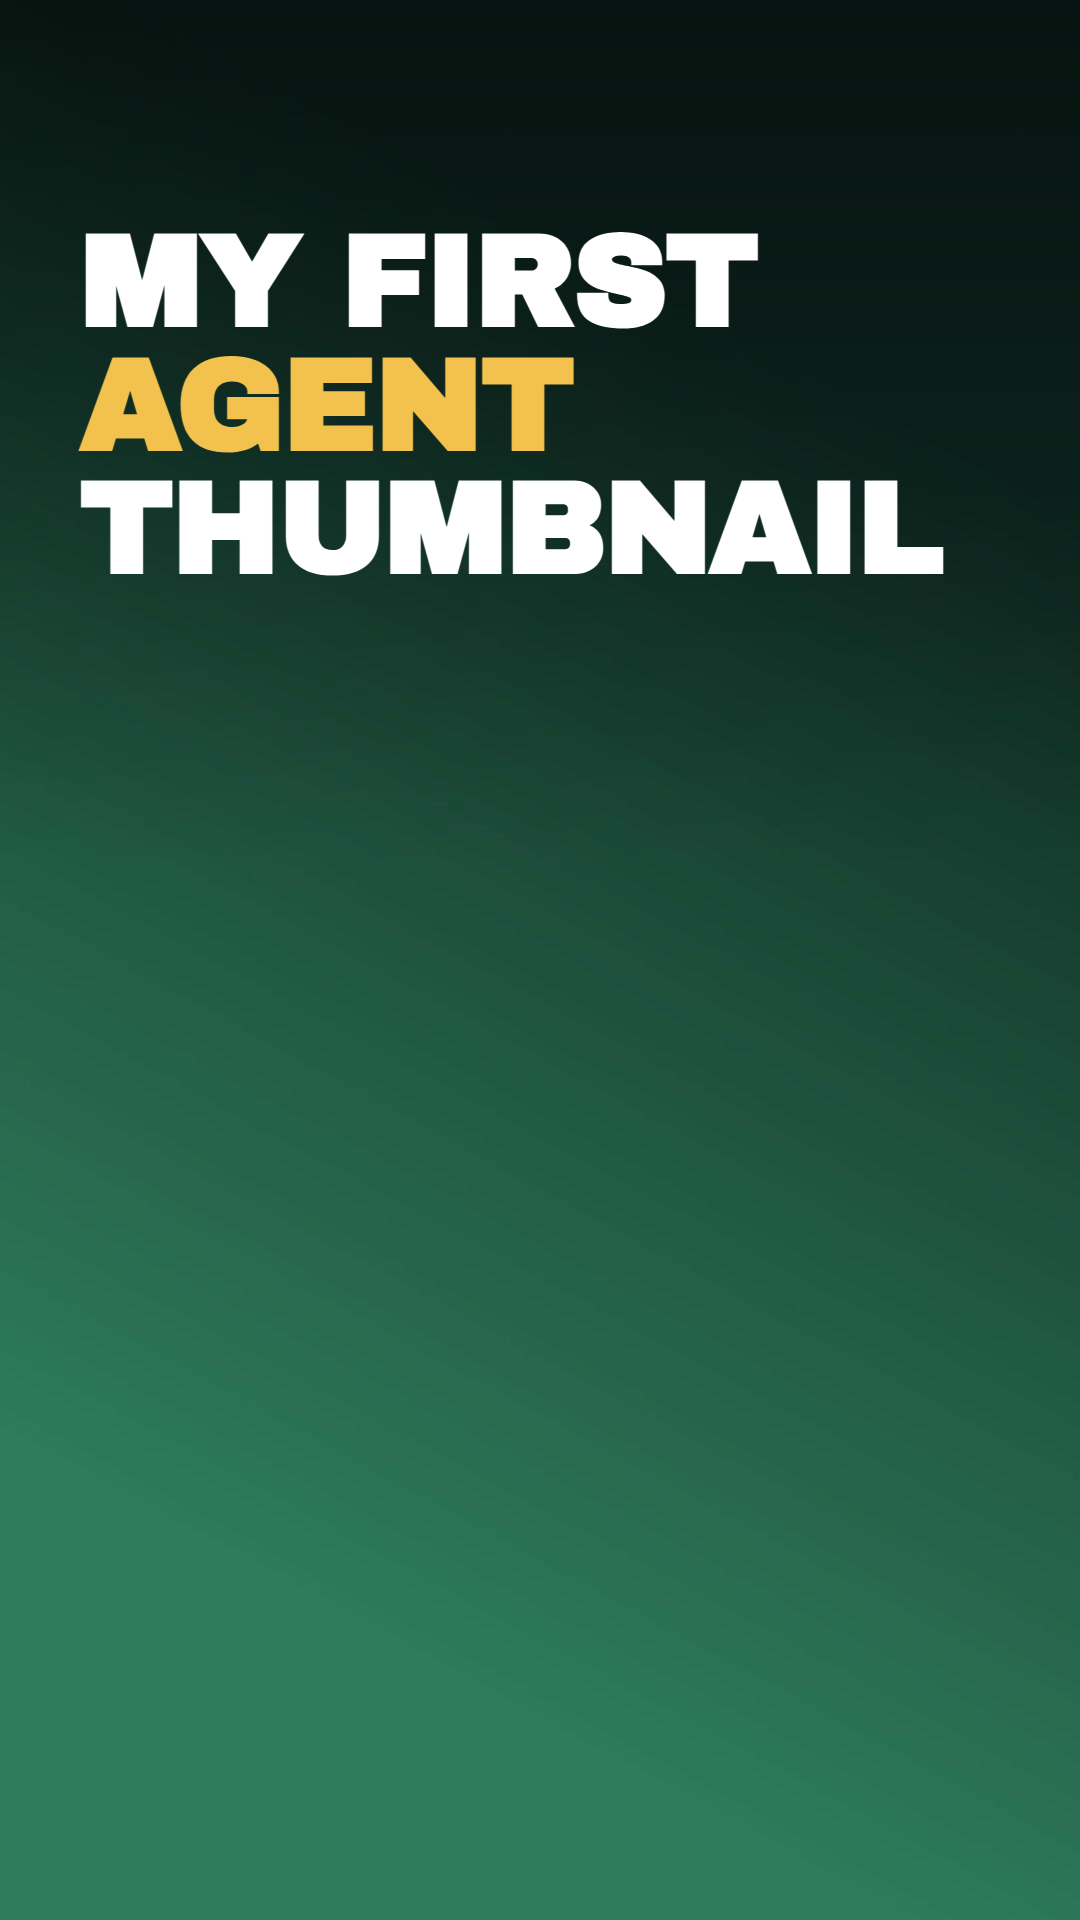
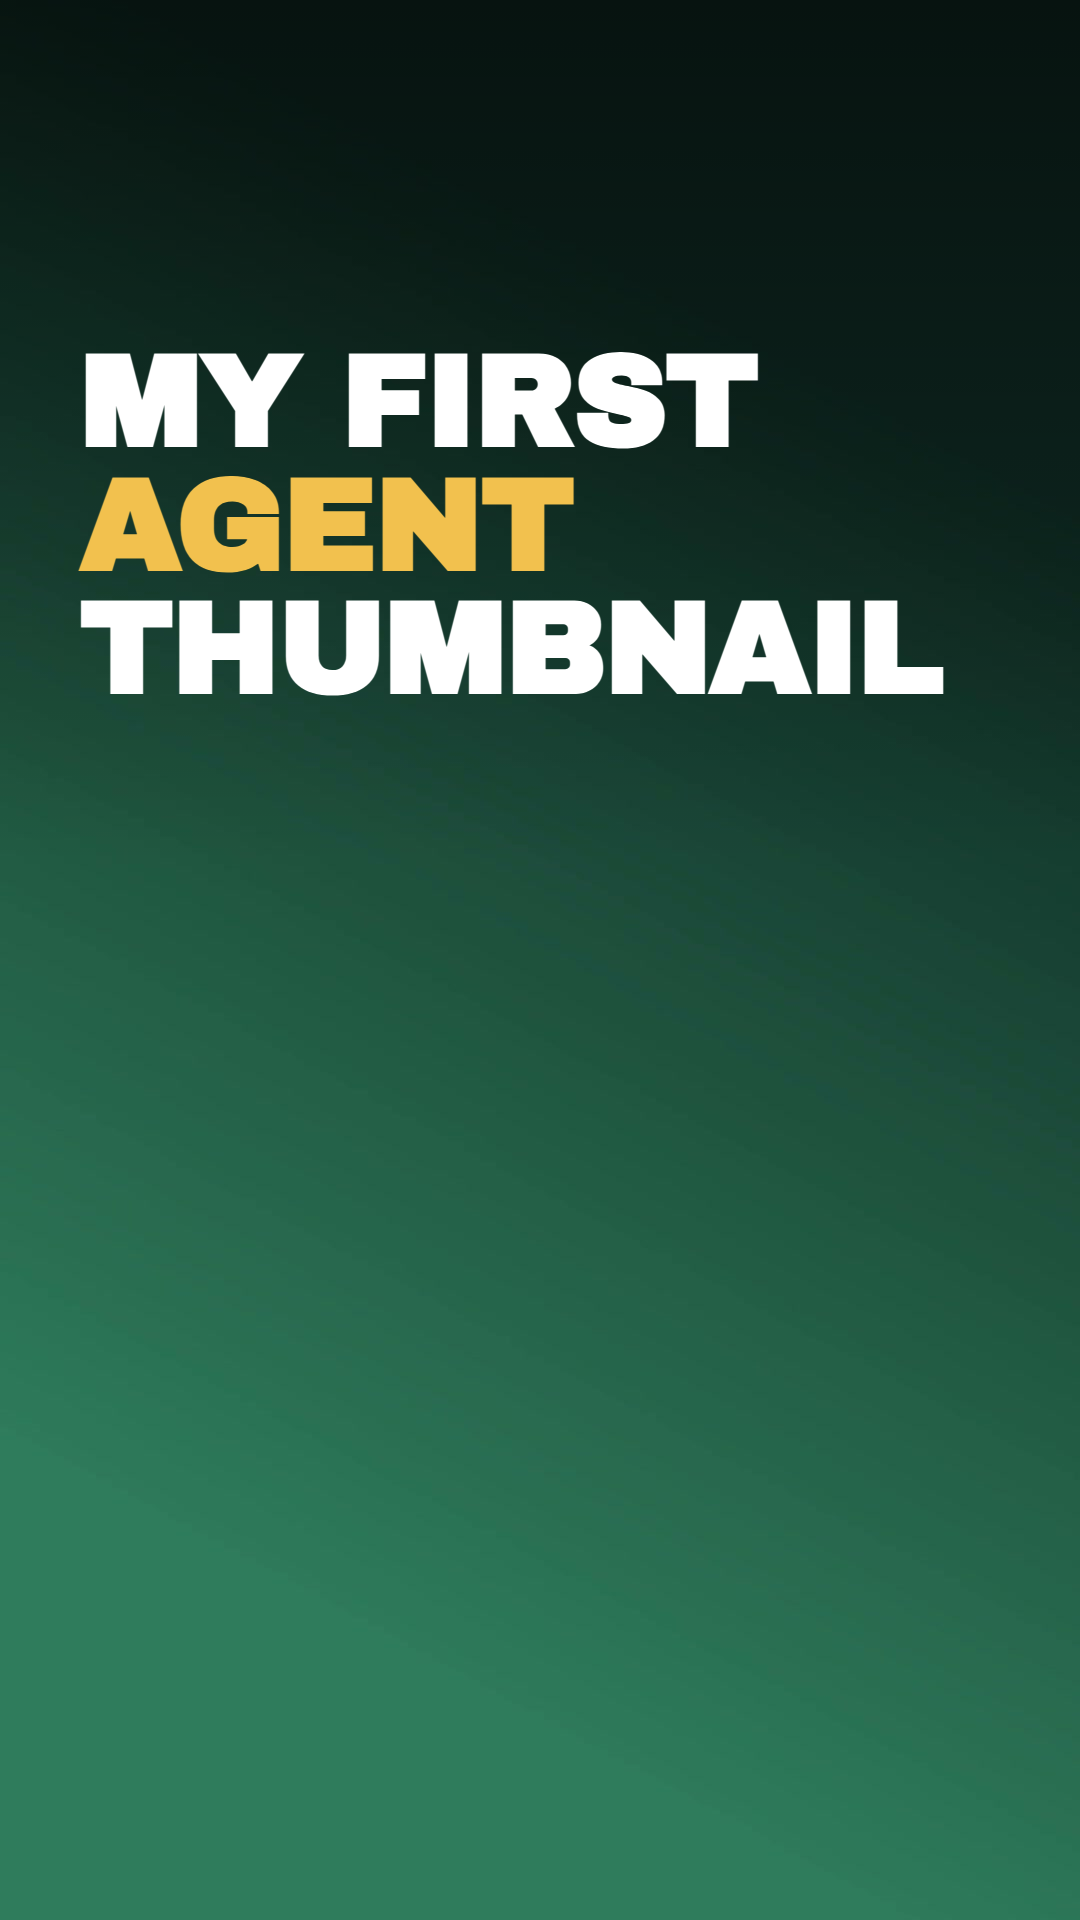
Thumbnail: Instagram sizes and safe zones, --guides crop lines
- table of canvas sizes and what each platform crops or covers (checked 2026-10-03):
  Reel cover 9:16, profile grid 3:4 (-240px top/bottom), home feed 4:5, full-screen UI
- render-html.ts --guides draws the grid/feed crops and caption area on 9:16 renders
- 00-example title moved into the safe zone (it was cut off on the grid)
- /prototype: G toggles the same crop lines for cover variants

Changed region(s): [[0.0611, 0.0938, 0.8861, 0.375]]

diff --git a/scripts/render-html.ts b/scripts/render-html.ts
@@ -12,7 +12,27 @@ export const SIZES = {
   "1:1": [1080, 1080],
 } as const satisfies Record<string, [number, number]>;
 
-export async function renderHtml(htmlPath: string, outPath: string, width: number, height: number): Promise<void> {
+// Instagram Reel cover zones, checked 2026-10-03: the profile grid crops 9:16 covers to a centred 3:4,
+// the home feed shows them at 4:5, and full-screen the caption and buttons cover the bottom ~20%.
+const GUIDES = `(() => {
+  const w = innerWidth, h = innerHeight, grid = (h - w * 4 / 3) / 2, feed = (h - w * 5 / 4) / 2;
+  const box = document.createElement("div");
+  box.style.cssText = "position:fixed;inset:0;z-index:2147483647;pointer-events:none;font:600 22px system-ui;";
+  const line = (y, color, dash, label) => box.insertAdjacentHTML("beforeend",
+    '<div style="position:absolute;left:0;right:0;top:' + (y - 2) + 'px;border-top:4px ' + dash + ' ' + color + '"></div>' +
+    '<div style="position:absolute;left:12px;top:' + (y + 6) + 'px;color:' + color + ';text-shadow:0 0 4px #000">' + label + '</div>');
+  line(grid, "rgb(255,0,200)", "solid", "profile grid 3:4");
+  line(h - grid, "rgb(255,0,200)", "solid", "profile grid 3:4");
+  line(feed, "rgb(0,220,255)", "dashed", "home feed 4:5");
+  line(h - feed, "rgb(0,220,255)", "dashed", "home feed 4:5");
+  box.insertAdjacentHTML("beforeend", '<div style="position:absolute;left:0;right:0;bottom:0;height:' + h * 0.2 +
+    'px;background:rgba(255,255,255,.18);color:#fff;padding:12px;text-shadow:0 0 4px #000">full-screen: caption + buttons</div>');
+  document.body.appendChild(box);
+})()`;
+
+export async function renderHtml(
+  htmlPath: string, outPath: string, width: number, height: number, opts: { guides?: boolean } = {},
+): Promise<void> {
   await mkdir(dirname(resolve(outPath)), { recursive: true });
   const browser = await chromium.launch();
   try {
@@ -20,6 +40,7 @@ export async function renderHtml(htmlPath: string, outPath: string, width: numbe
     // file:// so relative paths (../frames/x.jpg, fonts/) resolve next to the HTML file
     await page.goto(pathToFileURL(resolve(htmlPath)).href, { waitUntil: "networkidle" });
     await page.evaluate(() => document.fonts.ready);
+    if (opts.guides && Math.abs(width / height - 9 / 16) < 0.01) await page.evaluate(GUIDES);
     await page.screenshot({ path: outPath, clip: { x: 0, y: 0, width, height } });
   } finally {
     await browser.close();
@@ -27,12 +48,13 @@ export async function renderHtml(htmlPath: string, outPath: string, width: numbe
 }
 
 if (import.meta.main) {
-  const [html, out, size = "9:16"] = Bun.argv.slice(2);
+  const args = Bun.argv.slice(2).filter((a) => a !== "--guides");
+  const [html, out, size = "9:16"] = args;
   if (!html || !out || !(size in SIZES)) {
-    console.error("Usage: bun scripts/render-html.ts <page.html> <out.png> [9:16|16:9|4:5|1:1]");
+    console.error("Usage: bun scripts/render-html.ts <page.html> <out.png> [9:16|16:9|4:5|1:1] [--guides]");
     process.exit(1);
   }
   const [w, h] = SIZES[size as keyof typeof SIZES];
-  await renderHtml(html, out, w, h);
+  await renderHtml(html, out, w, h, { guides: Bun.argv.includes("--guides") });
   console.log(`Saved ${out} (${w}x${h})`);
 }

diff --git a/scripts/render-html.test.ts b/scripts/render-html.test.ts
@@ -33,3 +33,16 @@ test("renders at exact size and loads sibling files via file://", async () => {
   expect([w, h]).toEqual([540, 960]);
   expect([r, g, b]).toEqual([255, 0, 0]);
 }, 60_000);
+
+test("guides draw the Instagram crop lines on a 9:16 render, and are off by default", async () => {
+  const dir = await mkdtemp(join(tmpdir(), "render guides "));
+  await writeFile(join(dir, "page.html"), `<body style="margin:0;background:rgb(0,0,0)"></body>`);
+  const plain = join(dir, "plain.png");
+  const guided = join(dir, "guided.png");
+  await renderHtml(join(dir, "page.html"), plain, 1080, 1920);
+  await renderHtml(join(dir, "page.html"), guided, 1080, 1920, { guides: true });
+  // 3:4 profile-grid crop line at y=240, centre of the frame stays untouched
+  expect((await pixelAt(plain, 540, 240)).slice(2)).toEqual([0, 0, 0]);
+  expect((await pixelAt(guided, 540, 240)).slice(2)).not.toEqual([0, 0, 0]);
+  expect((await pixelAt(guided, 540, 960)).slice(2)).toEqual([0, 0, 0]);
+}, 60_000);

diff --git a/projects/00-example/thumbnail.html b/projects/00-example/thumbnail.html
@@ -8,7 +8,7 @@
   body { position: relative; font-family: "Archivo Black", sans-serif; }
   .bg { position: absolute; inset: 0; width: 100%; height: 100%; object-fit: cover; }
   .shade { position: absolute; inset: 0; background: linear-gradient(to bottom, rgba(0,0,0,.55) 0%, rgba(0,0,0,0) 45%); }
-  h1 { position: absolute; top: 220px; left: 80px; right: 80px; margin: 0;
+  h1 { position: absolute; top: 340px; left: 80px; right: 80px; margin: 0;
        font-size: 130px; line-height: .95; color: #fff; text-transform: uppercase; letter-spacing: -2px; }
   h1 em { font-style: normal; color: #f2c14e; }
 </style>

diff --git a/.claude/skills/thumbnail/SKILL.md b/.claude/skills/thumbnail/SKILL.md
@@ -15,7 +15,7 @@ Work inside a project folder (`projects/NN-name/`). If there isn't one, run `/ne
 
 Ask only what you don't know:
 - Which video or photo? (Usually in `input/`.)
-- Where will it be posted? Default 9:16 (Reels, TikTok, Shorts). 16:9 for YouTube, 4:5 for an Instagram grid post.
+- Where will it be posted? Default 9:16 (Reels, TikTok, Shorts). 16:9 for YouTube, 4:5 or 3:4 for an Instagram feed post. See the sizes and safe zones below: a Reel cover is 9:16 but gets cropped on the profile grid.
 - What's the video about, in one sentence? Any words that must be on it?
 - Any style they like? A screenshot in `input/` is worth a paragraph.
 
@@ -41,11 +41,30 @@ Write `projects/NN-name/thumbnail.html`:
 - `<body>` exactly the target size (1080×1920 for 9:16, 1280×720 for 16:9, 1080×1350 for 4:5), `margin:0`, `overflow:hidden`.
 - Frame as a full-bleed background: `<img src="frames/frame-03.jpg">` with `object-fit:cover`. Relative paths work.
 - Big, heavy type. One or two words can take an accent colour. Add a soft dark gradient or text shadow behind text so it reads on any frame.
-- Keep text away from the edges and out of the bottom 20% on 9:16 (platform buttons cover it).
+- Keep the face and all text inside the safe zone for the platform (below). On a 9:16 Reel cover that's roughly y 285 to 1536, with about 80px clear on each side.
 - For text behind the person (the matte effect), get a cutout with `/cutout`, then stack photo, text, cutout.
 - Use a distinctive Google Font via `<link>` rather than Arial or Inter. Use `/impeccable` if you want a design check.
 
 See `projects/00-example/thumbnail.html` for a working example.
+
+## Sizes and safe zones
+
+Checked online on 2026-10-03. Platforms change these, so if something looks off, search for the current numbers and update this table.
+
+| Where | Canvas | What gets cut or covered |
+|---|---|---|
+| Instagram Reel cover | 1080×1920 (9:16) | **Profile grid** shows only the centred 3:4 (1080×1440): about 240px cut from the top and the bottom. **Home feed** shows it at 4:5 (1080×1350): about 285px cut from each end. **Full screen**, the caption and buttons cover the bottom ~20% and the right edge. |
+| TikTok / YouTube Shorts | 1080×1920 (9:16) | Caption, username and buttons cover the bottom ~20% and the right edge. |
+| Instagram feed post | 1080×1350 (4:5) or 1080×1440 (3:4) | The grid shows 3:4, so a 4:5 post loses a little on the left and right there. |
+| YouTube | 1280×720 (16:9) | The video length badge covers the bottom-right corner. |
+
+For a Reel cover, the only area that survives the grid, the feed and full screen is the **centred block from y 285 to about 1536**. Put the face and every word there. The rest can hold background that's nice to have but not needed.
+
+Check it: render once with `--guides` (9:16 only). It draws the grid crop (magenta), the feed crop (cyan, dashed) and the full-screen caption area (shaded) over the design. Look at that version, but never ship it: the real PNG is rendered without `--guides`.
+
+```bash
+bun scripts/render-html.ts projects/NN-name/thumbnail.html /tmp/thumbnail-guides.png 9:16 --guides
+```
 
 ## 5. Render and show
 
@@ -56,7 +75,7 @@ bun scripts/render-html.ts projects/NN-name/thumbnail.html projects/NN-name/outp
 open projects/NN-name/output/thumbnail.png
 ```
 
-Look at the PNG yourself before showing it: check the font loaded, nothing is cut off, and the text reads.
+Look at the PNG yourself before showing it: check the font loaded, nothing is cut off, the text reads, and (for a 9:16 cover) the guides render shows everything important inside the safe zone. Tell the user in one line how it will look on the grid.
 
 ## 6. Iterate
 

diff --git a/CLAUDE.md b/CLAUDE.md
@@ -24,7 +24,7 @@ The person here is probably not technical. They have used AI as a chat window an
 - Use pnpm, never npm (`pnpm add`, `pnpm dlx`). It's faster and saves disk space.
 - Write scripts in TypeScript and run them with Bun (`bun scripts/x.ts`). Use Python with uv (`uv run`) when a task needs Python libraries, typically heavy image or video work.
 - `scripts/` has ready-made tools. Before using one, check it does exactly what this task needs. If it doesn't, adapt it or write a new one inside the project folder (and tell the user why).
-  - `scripts/render-html.ts` turns an HTML page into a PNG with Playwright. You can use it for thumbnails, covers and text graphics: `bun scripts/render-html.ts <page.html> <out.png> [9:16|16:9|4:5|1:1]`.
+  - `scripts/render-html.ts` turns an HTML page into a PNG with Playwright. You can use it for thumbnails, covers and text graphics: `bun scripts/render-html.ts <page.html> <out.png> [9:16|16:9|4:5|1:1] [--guides]`. `--guides` draws the Instagram crop lines on a 9:16 render for checking.
   - `scripts/extract-frames.ts` pulls evenly spaced stills from a video plus a contact sheet. You can use it to "watch" a video: `bun scripts/extract-frames.ts <video> <outDir> [count]`, then look at `contact-sheet.jpg`.
 - Thumbnails, covers and text graphics are HTML + CSS rendered to PNG with Playwright. Never use HyperFrames for still images: it's for video and much slower.
 - Background removal, mattes and cutouts: use `/cutout`. It runs a free local model first (after asking about the one-time download) and only suggests fal.ai if that isn't good enough.

diff --git a/.claude/skills/prototype/UI.md b/.claude/skills/prototype/UI.md
@@ -31,7 +31,7 @@ Use `/impeccable`'s guidance so none of them look like generic AI output.
 
 ### 3. One file, all versions
 
-Put every version in `index.html`, each in its own block (`<section data-variant="A">` …), with only the current one visible. Fixed-size designs (thumbnails, covers, slides) render at their real size, scaled down to fit the window if needed, so proportions stay true.
+Put every version in `index.html`, each in its own block (`<section data-variant="A">` …), with only the current one visible. Fixed-size designs (thumbnails, covers, slides) render at their real size, scaled down to fit the window if needed, so proportions stay true. For 9:16 covers, add a `G` key that toggles the platform crop lines and safe zone from `/thumbnail` (Sizes and safe zones), so every version can be judged as it will look on the Instagram grid.
 
 ### 4. The switcher bar
 
